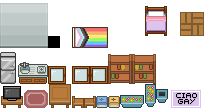
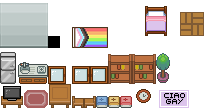
nuovi interni

Changed region(s): [[0.5556, 0.7778, 0.9444, 1.0], [0.7222, 0.4722, 0.8056, 0.7778]]

diff --git a/public/assets/data/collision-interni.js b/public/assets/data/collision-interni.js
@@ -22,8 +22,8 @@ const collisionInterni = [0, 0, 0, 0, 0, 0, 0, 0, 0, 0, 0, 0, 0, 0, 0, 0, 0, 0, 
             0, 0, 0, 0, 0, 0, 0, 0, 0, 0, 0, 0, 0, 0, 0, 0, 0, 0, 0, 0, 0, 0, 0, 0, 0, 0, 0, 0, 0, 2103, 0, 0, 0, 0, 0, 0, 0, 0, 0, 0, 0, 0, 0, 0, 2103, 0, 0, 0, 0, 0, 0, 0, 0, 0, 0, 0, 0, 0, 0, 0, 0, 0, 0, 0, 0, 0, 0, 0, 0, 0,
             0, 0, 0, 0, 0, 0, 0, 0, 0, 0, 0, 0, 0, 0, 0, 0, 0, 0, 0, 0, 0, 0, 0, 0, 0, 0, 0, 0, 0, 2103, 0, 0, 0, 0, 0, 0, 0, 0, 0, 0, 2103, 2103, 2103, 2103, 0, 0, 0, 0, 0, 0, 0, 0, 0, 0, 0, 0, 0, 0, 0, 0, 0, 0, 0, 0, 0, 0, 0, 0, 0, 0,
             0, 0, 0, 0, 0, 0, 0, 0, 0, 0, 0, 0, 0, 0, 0, 0, 0, 0, 0, 0, 0, 0, 0, 0, 0, 0, 0, 0, 0, 2103, 0, 0, 0, 0, 0, 0, 0, 0, 0, 0, 2103, 0, 0, 0, 0, 0, 0, 0, 0, 0, 0, 0, 0, 0, 0, 0, 0, 0, 0, 0, 0, 0, 0, 0, 0, 0, 0, 0, 0, 0,
-            0, 0, 0, 0, 0, 0, 0, 0, 0, 0, 0, 0, 0, 0, 0, 0, 0, 0, 0, 0, 0, 0, 0, 0, 0, 0, 0, 0, 0, 2103, 0, 0, 0, 0, 0, 0, 0, 0, 0, 0, 2103, 0, 0, 0, 0, 0, 0, 0, 0, 0, 0, 0, 0, 0, 0, 0, 0, 0, 0, 0, 0, 0, 0, 0, 0, 0, 0, 0, 0, 0,
-            0, 0, 0, 0, 0, 0, 0, 0, 0, 0, 0, 0, 0, 0, 0, 0, 0, 0, 0, 0, 0, 0, 0, 0, 0, 0, 0, 0, 0, 0, 2103, 2103, 2103, 2103, 2103, 2103, 2103, 2103, 2103, 2103, 0, 0, 0, 0, 0, 0, 0, 0, 0, 0, 0, 0, 0, 0, 0, 0, 0, 0, 0, 0, 0, 0, 0, 0, 0, 0, 0, 0, 0, 0,
+            0, 0, 0, 0, 0, 0, 0, 0, 0, 0, 0, 0, 0, 0, 0, 0, 0, 0, 0, 0, 0, 0, 0, 0, 0, 0, 0, 0, 0, 0, 2103, 0, 0, 0, 0, 0, 0, 0, 0, 0, 2103, 0, 0, 0, 0, 0, 0, 0, 0, 0, 0, 0, 0, 0, 0, 0, 0, 0, 0, 0, 0, 0, 0, 0, 0, 0, 0, 0, 0, 0,
+            0, 0, 0, 0, 0, 0, 0, 0, 0, 0, 0, 0, 0, 0, 0, 0, 0, 0, 0, 0, 0, 0, 0, 0, 0, 0, 0, 0, 0, 0, 0, 2103, 2103, 2103, 2103, 2103, 2103, 2103, 2103, 2103, 0, 0, 0, 0, 0, 0, 0, 0, 0, 0, 0, 0, 0, 0, 0, 0, 0, 0, 0, 0, 0, 0, 0, 0, 0, 0, 0, 0, 0, 0,
             0, 0, 0, 0, 0, 0, 0, 0, 0, 0, 0, 0, 0, 0, 0, 0, 0, 0, 0, 0, 0, 0, 0, 0, 0, 0, 0, 0, 0, 0, 0, 0, 0, 0, 0, 0, 0, 0, 0, 0, 0, 0, 0, 0, 0, 0, 0, 0, 0, 0, 0, 0, 0, 0, 0, 0, 0, 0, 0, 0, 0, 0, 0, 0, 0, 0, 0, 0, 0, 0,
             0, 0, 0, 0, 0, 0, 0, 0, 0, 0, 0, 0, 0, 0, 0, 0, 0, 0, 0, 0, 0, 0, 0, 0, 0, 0, 0, 0, 0, 0, 0, 0, 0, 0, 0, 0, 0, 0, 0, 0, 0, 0, 0, 0, 0, 0, 0, 0, 0, 0, 0, 0, 0, 0, 0, 0, 0, 0, 0, 0, 0, 0, 0, 0, 0, 0, 0, 0, 0, 0,
             0, 0, 0, 0, 0, 0, 0, 0, 0, 0, 0, 0, 0, 0, 0, 0, 0, 0, 0, 0, 0, 0, 0, 0, 0, 0, 0, 0, 0, 0, 0, 0, 0, 0, 0, 0, 0, 0, 0, 0, 0, 0, 0, 0, 0, 0, 0, 0, 0, 0, 0, 0, 0, 0, 0, 0, 0, 0, 0, 0, 0, 0, 0, 0, 0, 0, 0, 0, 0, 0,

diff --git a/public/assets/js/index.js b/public/assets/js/index.js
@@ -372,7 +372,7 @@ window.addEventListener('keyup', (e) => {
     }
 })
 
-// TEST
+// direzioni
 const setDirection = (key, isPressed) => {
     switch (key) {
         case 'ArrowUp': keys.w.pressed = isPressed; lastKey = 'ArrowUp'; break;
